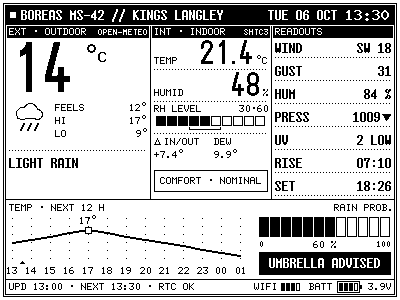
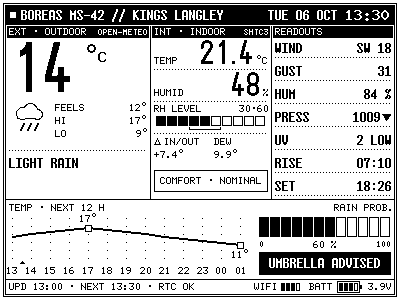
Label the low as well as the peak on the temperature trace
The 12 h trace showed only the day's peak. Knowing how cold it will get
overnight matters as much for deciding on a coat, so the lowest point
is now marked and labelled too (F-005 reworded to "labelled peak and
low values").

Derive records trace_low (offset of the lowest point, first if tied)
beside trace_peak, so ui/ still does no data arithmetic. Two assertions
cover it, including a low on the last point after stale hours are
skipped. In ui/Trace one helper draws both markers: a hollow square
with the value above for the peak and below for the low, each on a
small cleared patch so the dotted grid doesn't cross the digits. A flat
trace shows only the peak.

Fitting the low label between the curve and the now-pointer meant
narrowing the curve band from 26 to 17 px (y 227-244). The worst-case
fixture (-31 on the last point, label clamped inward) first had its
degree sign touching the marker; the label now sits 1 px lower, which a
pixel check confirmed leaves the marker intact and the pointer rows
clear. The reference image is regenerated (hash e291ad35) and SPEC's
trace table gains the low row. Approved on the panel.

Changed region(s): [[0.03, 0.69, 0.63, 0.87]]

diff --git a/src/ui/Trace.cpp b/src/ui/Trace.cpp
@@ -20,8 +20,8 @@ constexpr int16_t kPlotX0 = 12;    // first point (current hour)
 constexpr int16_t kHourStep = 19;  // px per hour; 12 steps end at x 240
 constexpr int16_t kPlotTop = 218;
 constexpr int16_t kPlotBottom = 258;
-constexpr int16_t kCurveTop = 229;  // headroom above the curve for the peak label, clear of the title
-constexpr int16_t kCurveBottom = 255;
+constexpr int16_t kCurveTop = 227;     // headroom above for the peak label, clear of the title
+constexpr int16_t kCurveBottom = 244;  // room below for the low label, clear of the pointer
 constexpr int16_t kGridStep = 8;
 constexpr int16_t kPointerY = 260;
 constexpr int16_t kHourBaseline = 274;
@@ -33,6 +33,31 @@ int16_t point_y(float t, float lo, float hi) {
   if (hi - lo < 0.05f) return (kCurveTop + kCurveBottom) / 2;
   const float f = (t - lo) / (hi - lo);
   return static_cast<int16_t>(std::lround(kCurveBottom - f * (kCurveBottom - kCurveTop)));
+}
+
+// Marks an extreme with a hollow square and its value, above (peak) or
+// below (low) the point, on a cleared patch so the grid doesn't cross the
+// digits. The label is kept inside the trace region.
+void draw_extreme(u8g2_t* g, int16_t px, int16_t py, float value, bool above) {
+  u8g2_SetDrawColor(g, 0);
+  u8g2_DrawBox(g, px - kPeakBox / 2, py - kPeakBox / 2 + 1, kPeakBox, kPeakBox);
+  u8g2_SetDrawColor(g, 1);
+  u8g2_DrawFrame(g, px - kPeakBox / 2 - 1, py - kPeakBox / 2, kPeakBox + 2, kPeakBox + 2);
+
+  char buf[12];
+  const long v = std::lround(value);
+  snprintf(buf, sizeof(buf), "%ld\xC2\xB0", v == 0 ? 0L : v);
+  const int16_t w = text_width(g, buf);
+  int16_t lx = static_cast<int16_t>(px - w / 2);
+  if (lx < kTrace.x + kPad) lx = kTrace.x + kPad;
+  if (lx + w > kTrace.right() - kPad) lx = static_cast<int16_t>(kTrace.right() - kPad - w);
+  // Frame spans py-2 .. py+4. Digits are 7 px tall and the degree sign
+  // reaches 9 px above the baseline, so a low label sits 10 px below the frame.
+  const int16_t baseline = above ? static_cast<int16_t>(py - kPeakBox / 2 - 3) : static_cast<int16_t>(py + 14);
+  u8g2_SetDrawColor(g, 0);
+  u8g2_DrawBox(g, lx - 1, baseline - 9, w + 2, 10);
+  u8g2_SetDrawColor(g, 1);
+  u8g2_DrawUTF8(g, lx, baseline, buf);
 }
 
 }  // namespace
@@ -73,19 +98,9 @@ void draw_trace(u8g2_t* g, const PanelState& s) {
     u8g2_DrawLine(g, x0, y0 + 1, x1, y1 + 1);
   }
 
-  // Peak: hollow square and its value above, kept inside the region.
-  const int16_t px = point_x(d.trace_peak), py = point_y(hi, lo, hi);
-  u8g2_SetDrawColor(g, 0);
-  u8g2_DrawBox(g, px - kPeakBox / 2, py - kPeakBox / 2 + 1, kPeakBox, kPeakBox);
-  u8g2_SetDrawColor(g, 1);
-  u8g2_DrawFrame(g, px - kPeakBox / 2 - 1, py - kPeakBox / 2, kPeakBox + 2, kPeakBox + 2);
-  char buf[12];
-  snprintf(buf, sizeof(buf), "%ld\xC2\xB0", std::lround(hi) == 0 ? 0L : std::lround(hi));
-  const int16_t w = text_width(g, buf);
-  int16_t lx = static_cast<int16_t>(px - w / 2);
-  if (lx < kTrace.x + kPad) lx = kTrace.x + kPad;
-  if (lx + w > kTrace.right() - kPad) lx = static_cast<int16_t>(kTrace.right() - kPad - w);
-  u8g2_DrawUTF8(g, lx, static_cast<int16_t>(py - kPeakBox / 2 - 3), buf);
+  // Peak above and low below (F-005); a flat trace shows only the peak.
+  draw_extreme(g, point_x(d.trace_peak), point_y(hi, lo, hi), hi, true);
+  if (hi - lo >= 0.05f) draw_extreme(g, point_x(d.trace_low), point_y(lo, lo, hi), lo, false);
 
   // Pointer under the plot at the current time within the first hour.
   const float frac = static_cast<float>(s.now_utc - h[0].time) / 3600.0f;
@@ -95,6 +110,7 @@ void draw_trace(u8g2_t* g, const PanelState& s) {
   }
 
   // Hour labels (local), centred under each point.
+  char buf[4];
   for (int i = 0; i < n; ++i) {
     struct tm t;
     localtime_r(&h[i].time, &t);

diff --git a/test/test_derived/test_main.cpp b/test/test_derived/test_main.cpp
@@ -214,6 +214,7 @@ void test_derive_day_values() {
   TEST_ASSERT_EQUAL_UINT8(13, d.trace_count);
   TEST_ASSERT_FLOAT_WITHIN(0.01f, 18.0f, d.trace_max_c);
   TEST_ASSERT_EQUAL_UINT8(4, d.trace_peak);
+  TEST_ASSERT_EQUAL_UINT8(12, d.trace_low);  // 10 C at +12 h
   TEST_ASSERT_FLOAT_WITHIN(0.01f, 10.0f, d.trace_min_c);  // +12 h: 14 + 8 - 12
 }
 
@@ -246,6 +247,7 @@ void test_derive_skips_past_hours() {
   TEST_ASSERT_EQUAL_UINT8(2, d.first_hour);
   TEST_ASSERT_EQUAL_UINT8(13, d.trace_count);
   TEST_ASSERT_EQUAL_UINT8(2, d.trace_peak);  // peak still at 16:00, now offset 2
+  TEST_ASSERT_EQUAL_UINT8(12, d.trace_low);  // 8 C at 02:00, the last point
 }
 
 void test_derive_umbrella_by_probability() {

diff --git a/src/data/Derived.cpp b/src/data/Derived.cpp
@@ -176,7 +176,10 @@ DerivedModel derive(const WeatherModel& w, const IndoorModel& in, const Pressure
   d.trace_count = static_cast<uint8_t>(points > 0 ? points : 0);
   for (int i = 0; i < points; ++i) {
     const float t = w.hourly[first + i].temp_c;
-    if (i == 0 || t < d.trace_min_c) d.trace_min_c = t;
+    if (i == 0 || t < d.trace_min_c) {
+      d.trace_min_c = t;
+      d.trace_low = static_cast<uint8_t>(i);
+    }
     if (i == 0 || t > d.trace_max_c) {
       d.trace_max_c = t;
       d.trace_peak = static_cast<uint8_t>(i);

diff --git a/src/data/Derived.h b/src/data/Derived.h
@@ -41,6 +41,7 @@ struct DerivedModel {
   float trace_min_c = 0.0f;
   float trace_max_c = 0.0f;
   uint8_t trace_peak = 0;     // offset from first_hour of the highest point
+  uint8_t trace_low = 0;      // offset from first_hour of the lowest point (first if tied)
   uint8_t max_prob_12h = 0;   // %
   float max_precip_12h = 0.0f;  // mm in any one hour
   uint8_t rain_segments = 0;  // 0-12, rain meter

diff --git a/SPEC.md b/SPEC.md
@@ -188,8 +188,9 @@ Region x 6–255, y 200–278.
 | Title `TEMP · NEXT 12 H` | x 9, baseline 211 | `6x12_tf` |
 | Points | 13 (current hour + 12), x = 12 + 19·i (12 … 240) | from `DerivedModel::first_hour` |
 | Grid | a dot at every point column, rows 218, 226 … 258 | — |
-| Curve | 2 px polyline, scaled min→max into y 255…229 | flat data sits mid-band; top leaves room for the peak label under the title |
-| Peak | hollow 7×7 square on the highest point; value above it (`17°`), clamped inside the region | `6x12_tf` |
+| Curve | 2 px polyline, scaled min→max into y 244…227 | flat data sits mid-band; room above for the peak label (under the title) and below for the low label (above the pointer) |
+| Peak | hollow 7×7 square on the highest point; value above it (`17°`), clamped inside the region, on a cleared patch | `6x12_tf` |
+| Low | the same marker on the lowest point (`DerivedModel::trace_low`, first if tied); value **below** it, baseline point + 14 (≤ 258, clear of the pointer); omitted when the trace is flat | `6x12_tf` |
 | Now pointer | ▲ under the plot (y 260–264) at now's fraction of the first hour; only with a valid clock | — |
 | Hour labels | local hour `HH` centred under each point, baseline 274 | `6x12_tf` |
 
@@ -222,7 +223,7 @@ Wi-Fi bars from RSSI (`derived::wifi_bars`): 4 at ≥ −55 dBm, 3 at ≥ −67,
 
 ### Reference image
 
-`design/panel-reference.png` (400×300, exact panel pixels) is the Main page rendered by the host preview from the `typical` fixture: the mockup's public example data, KINGS LANGLEY, TUE 06 OCT 13:30. It is the reference for the Phase 1 photograph. Current hash: `50c160a9`. Regenerate it in the same commit as any change under `src/ui/` that alters it (BUILD.md §4).
+`design/panel-reference.png` (400×300, exact panel pixels) is the Main page rendered by the host preview from the `typical` fixture: the mockup's public example data, KINGS LANGLEY, TUE 06 OCT 13:30. It is the reference for the Phase 1 photograph. Current hash: `e291ad35`. Regenerate it in the same commit as any change under `src/ui/` that alters it (BUILD.md §4).
 
 ## Open-Meteo request
 

diff --git a/CHANGELOG.md b/CHANGELOG.md
@@ -37,6 +37,7 @@ Format follows [Keep a Changelog](https://keepachangelog.com). Reference F-, D-,
 - BUG-004 (open): panel froze while the firmware kept redrawing; only a power-cycle recovered it.
 - Serial `dump` command and `tools/sdlog.py`: copy the health log over USB without removing the card. `tools/soak.py` now reports per boot session, estimates untimed boot times, groups fetch failures by minute, and returns `INCOMPLETE` when no run reaches 72 h. IMP-005 (fetch slots off the hour, after 503s at hh:00 in the soak).
 - D-019 panel self-heal: `St7305Panel::reinit()` every 15 min before a redraw (BUG-004 mitigation; 140 ms). BUG-004 updated with two recurrences during the soak (blank, half blank).
+- Trace now labels the low as well as the peak (F-005): `DerivedModel::trace_low`, a shared marker helper with cleared label patches, curve band 227–244. Reference image regenerated (`e291ad35`).
 - `include/locations.example.h`: forecast location template. The real location lives in the git-ignored `include/locations.h`.
 ### Changed
 - Project retargeted from Raspberry Pi Zero WH + Inky pHAT to the Waveshare ESP32-S3-RLCD-4.2 (D-001).

diff --git a/FEATURES.md b/FEATURES.md
@@ -58,7 +58,7 @@ One user: Shane, glancing at a wall or desk panel to decide whether to take a co
 **Priority:** Must
 **Acceptance:**
 - Polyline of hourly temperature for the next 12 h on a dotted grid, hour ticks beneath
-- Current-hour marker and labelled peak value
+- Current-hour marker and labelled peak and low values
 **Status:** Done 2026-10-10 — trace drawn, previewed (typical, worst across midnight, dry, no data) and on the board
 
 ### F-006 Rain probability meter
